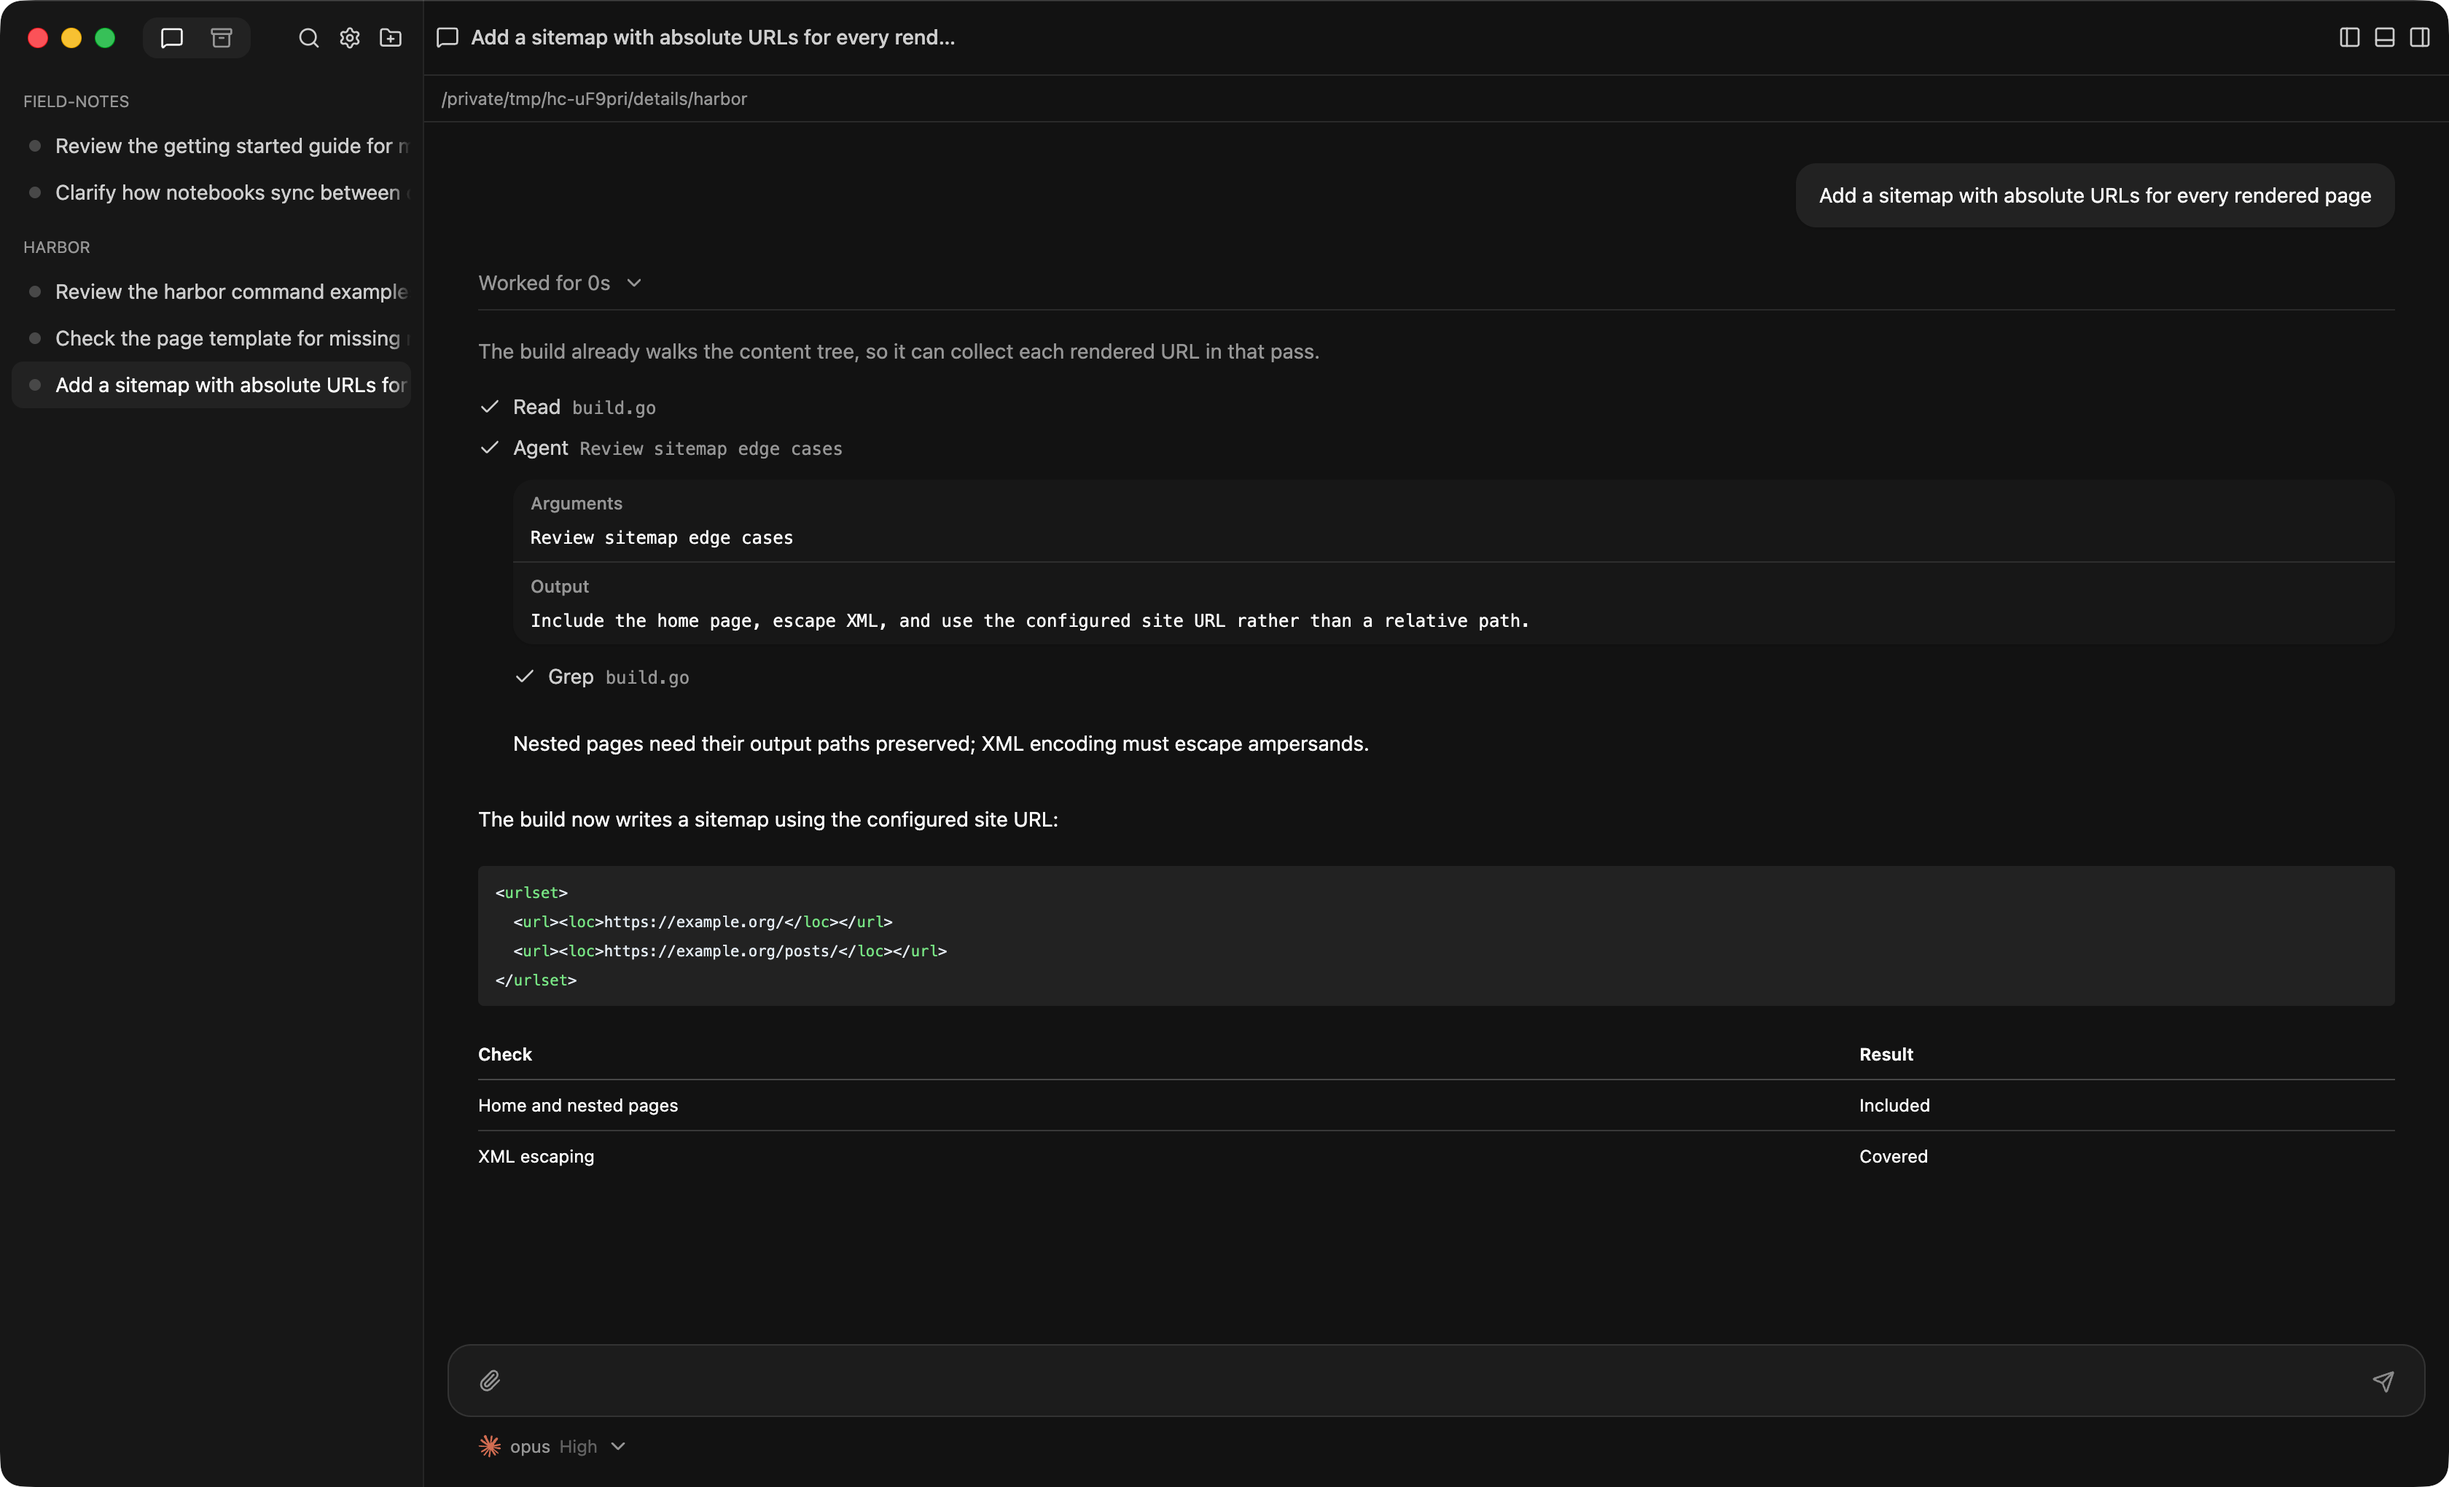
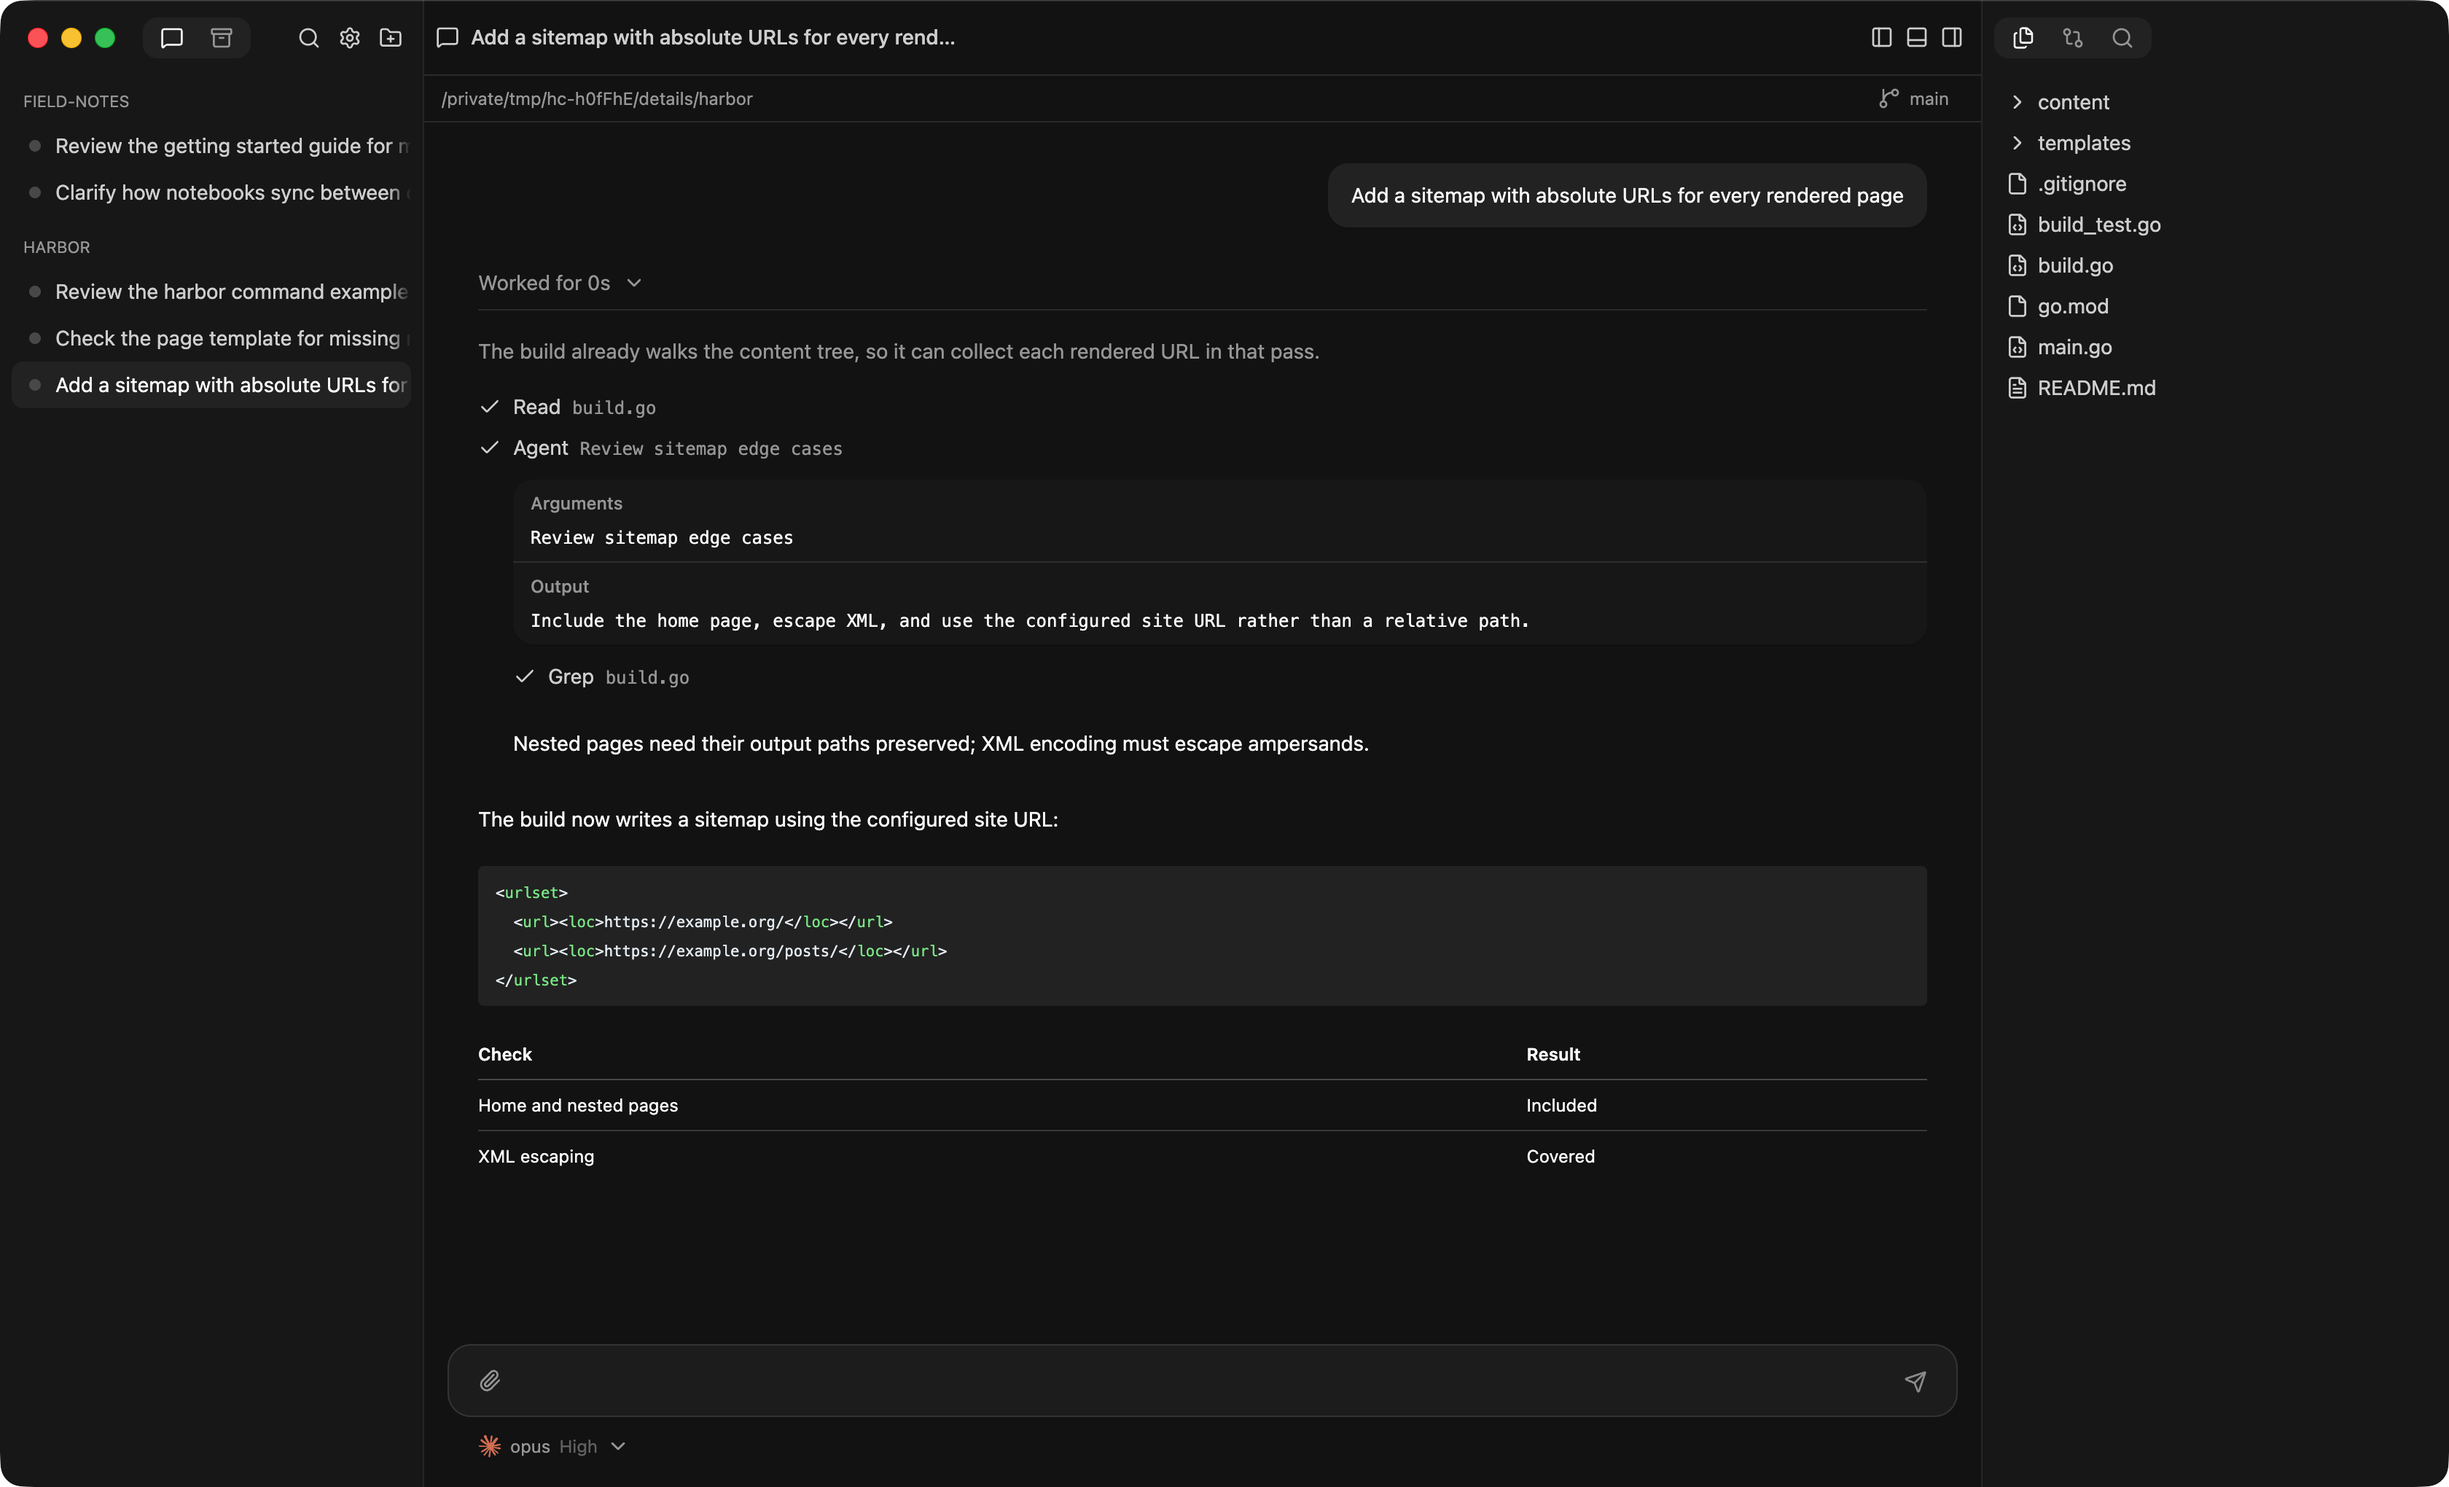
Widen the conversation in screenshots and keep the right panel open when no file tabs are shown

diff --git a/scripts/screenshots/main.js b/scripts/screenshots/main.js
@@ -302,10 +302,10 @@ async function capture(scene, ids, backend, window, name) {
     sessionViews[id] = {panel: false, ...scened.view, expanded};
   }
   const merged = {...defaultWorkbench, ...scene.workbench};
-  // The conversation takes a third of the space beside the sidebar and right
+  // The conversation takes two fifths of the space beside the sidebar and right
   // panel; editor panes take the rest.
   const available = scene.size.width - (merged.sidebar ? merged.sizes.sidebar : 0) - (merged.rightPanel ? merged.sizes.rightPanel : 0);
-  merged.sizes = {...defaultWorkbench.sizes, editor: Math.round(available * 2 / 3), ...scene.workbench?.sizes};
+  merged.sizes = {...defaultWorkbench.sizes, editor: Math.round(available * 3 / 5), ...scene.workbench?.sizes};
   const views = {selected: null, workbench: merged, sessionViews, workspaceViews: {}};
   await contents.loadURL(backend.origin + '/version');
   await contents.executeJavaScript(`localStorage.setItem('hypercube.views', ${JSON.stringify(JSON.stringify(views))})`);

diff --git a/agents/documentation.md b/agents/documentation.md
@@ -66,7 +66,7 @@ Each scene declares:
 - `workbench.rightPanel: false` hides the right panel; `workbench.rightTab`
   chooses Files or Git (`files` or `git`); `comparison: "branch"` selects Git's
   Committed view for a worktree. The driver sizes the editor panes so the
-  conversation takes one third of the width beside the sidebar and right panel.
+  conversation takes two fifths of the width beside the sidebar and right panel.
 
 ### Capture requirements
 
@@ -81,8 +81,9 @@ Open every generated image and check theme, content, toolbar layout, and native
 window buttons.
 Use the app's default panel sizes. Keep toolbars fully visible and session
 labels readable. Use several sessions across workspaces, a
-transcript filling its column, and the right panel open only where the
-screenshot shows the file tree or Git changes. Commit new captures
+transcript filling its column, and the right panel open unless a scene has file tabs
+and does not need the file tree or Git changes; the sidebar, conversation, file
+tabs, and right panel together leave too little room. Commit new captures
 with their scene changes.
 
 ## Website
